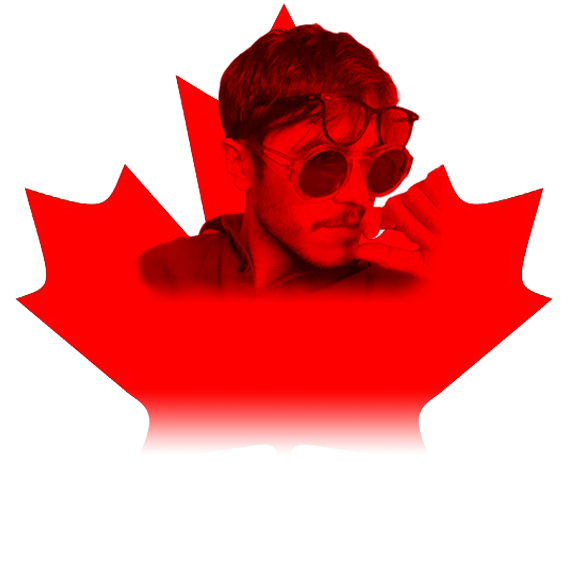
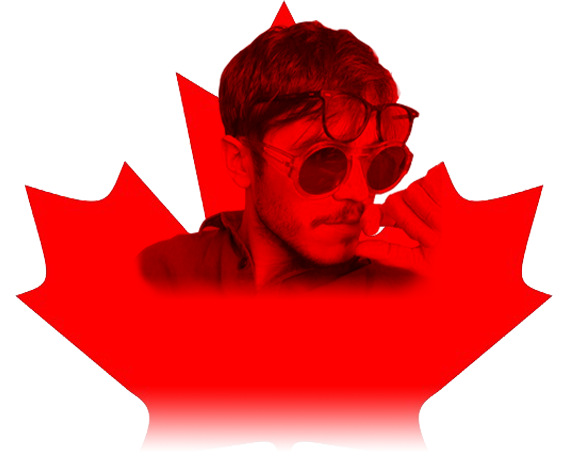
css centering

diff --git a/index.html b/index.html
@@ -14,16 +14,16 @@
     <div class="panel left"></div>
     <div class="maple">
         <img src="img/josemaple.png" alt="" class="img">
-        <div id="timer">
-            <div class="days"><div class="numbers" id="days"></div>days</div>
-            <div class="hours"><div class="numbers"id="hours"></div>hours</div>
-            <div class="minutes"><div class="numbers" id="minutes"></div>minutes</div>
-            <div class="seconds"><div class="numbers" id="seconds"></div>seconds</div>
+        <div class="container">
+            <div id="timer">
+                <div class="days"><div class="numbers" id="days"></div>days</div>
+                <div class="hours"><div class="numbers"id="hours"></div>hours</div>
+                <div class="minutes"><div class="numbers" id="minutes"></div>minutes</div>
+                <div class="seconds"><div class="numbers" id="seconds"></div>seconds</div>
+            </div>
+            <h1>It's about to get Mont-real.</h1>
         </div>
-        <h1>It's about to get Mont-real.</h1>
-        <h1 id="test"></h1>
     </div>
-
     <div class="panel right"></div>
     <script src="js/app.js"></script>
 </body>

diff --git a/css/main.css b/css/main.css
@@ -25,8 +25,8 @@ body {
 
 .maple {
   position: absolute;
-  width: 600px;
-  height: 600px;
+  width: 50%;
+  height: 50%;
   left: 0;
   right: 0;
   top: 13%;
@@ -34,13 +34,19 @@ body {
   background-image: url("img/josemaple.png");
 }
 
+.container {
+  position: relative;
+  top: -30%;
+  margin: 0 auto;
+  width: 80%;
+}
+
 h1 {
   font-family: "Covered By Your Grace", cursive;
-  text-align: center;
   font-size: 2em;
-  text-transform: uppercase;
-  letter-spacing: 5px;
   color: red;
+  position: relative;
+  bottom: -20%;
 }
 
 #timer {
@@ -52,7 +58,6 @@ h1 {
   text-transform: uppercase;
   font-family: Helvetica, Arial, Sans-Serif;
   font-size: 0.7em;
-  margin-top: -43%;
   letter-spacing: 5px;
   border-radius: 5px;
 }

diff --git a/css/main.scss b/css/main.scss
@@ -36,8 +36,8 @@ body {
 
 .maple {
   position: absolute;
-  width: 600px;
-  height: 600px;
+  width: 50%;
+  height: 50%;
   left: 0;
   right: 0;
   top: 13%;
@@ -45,13 +45,19 @@ body {
   background-image: url("img/josemaple.png");
 }
 
+.container {
+  position: relative;
+  top: -30%;
+  margin: 0 auto;
+  width: 80%;
+}
+
 h1 {
   font-family: $handwritten;
-  text-align: center;
   font-size: 2em;
-  text-transform: uppercase;
-  letter-spacing: 5px;
   color: $red;
+  position: relative;
+  bottom: -20%;
 }
 
 #timer {
@@ -63,7 +69,6 @@ h1 {
   text-transform: uppercase;
   font-family: $normal;
   font-size: .7em;
-  margin-top: -43%;
   letter-spacing: 5px;
   border-radius: $radius;
 }
